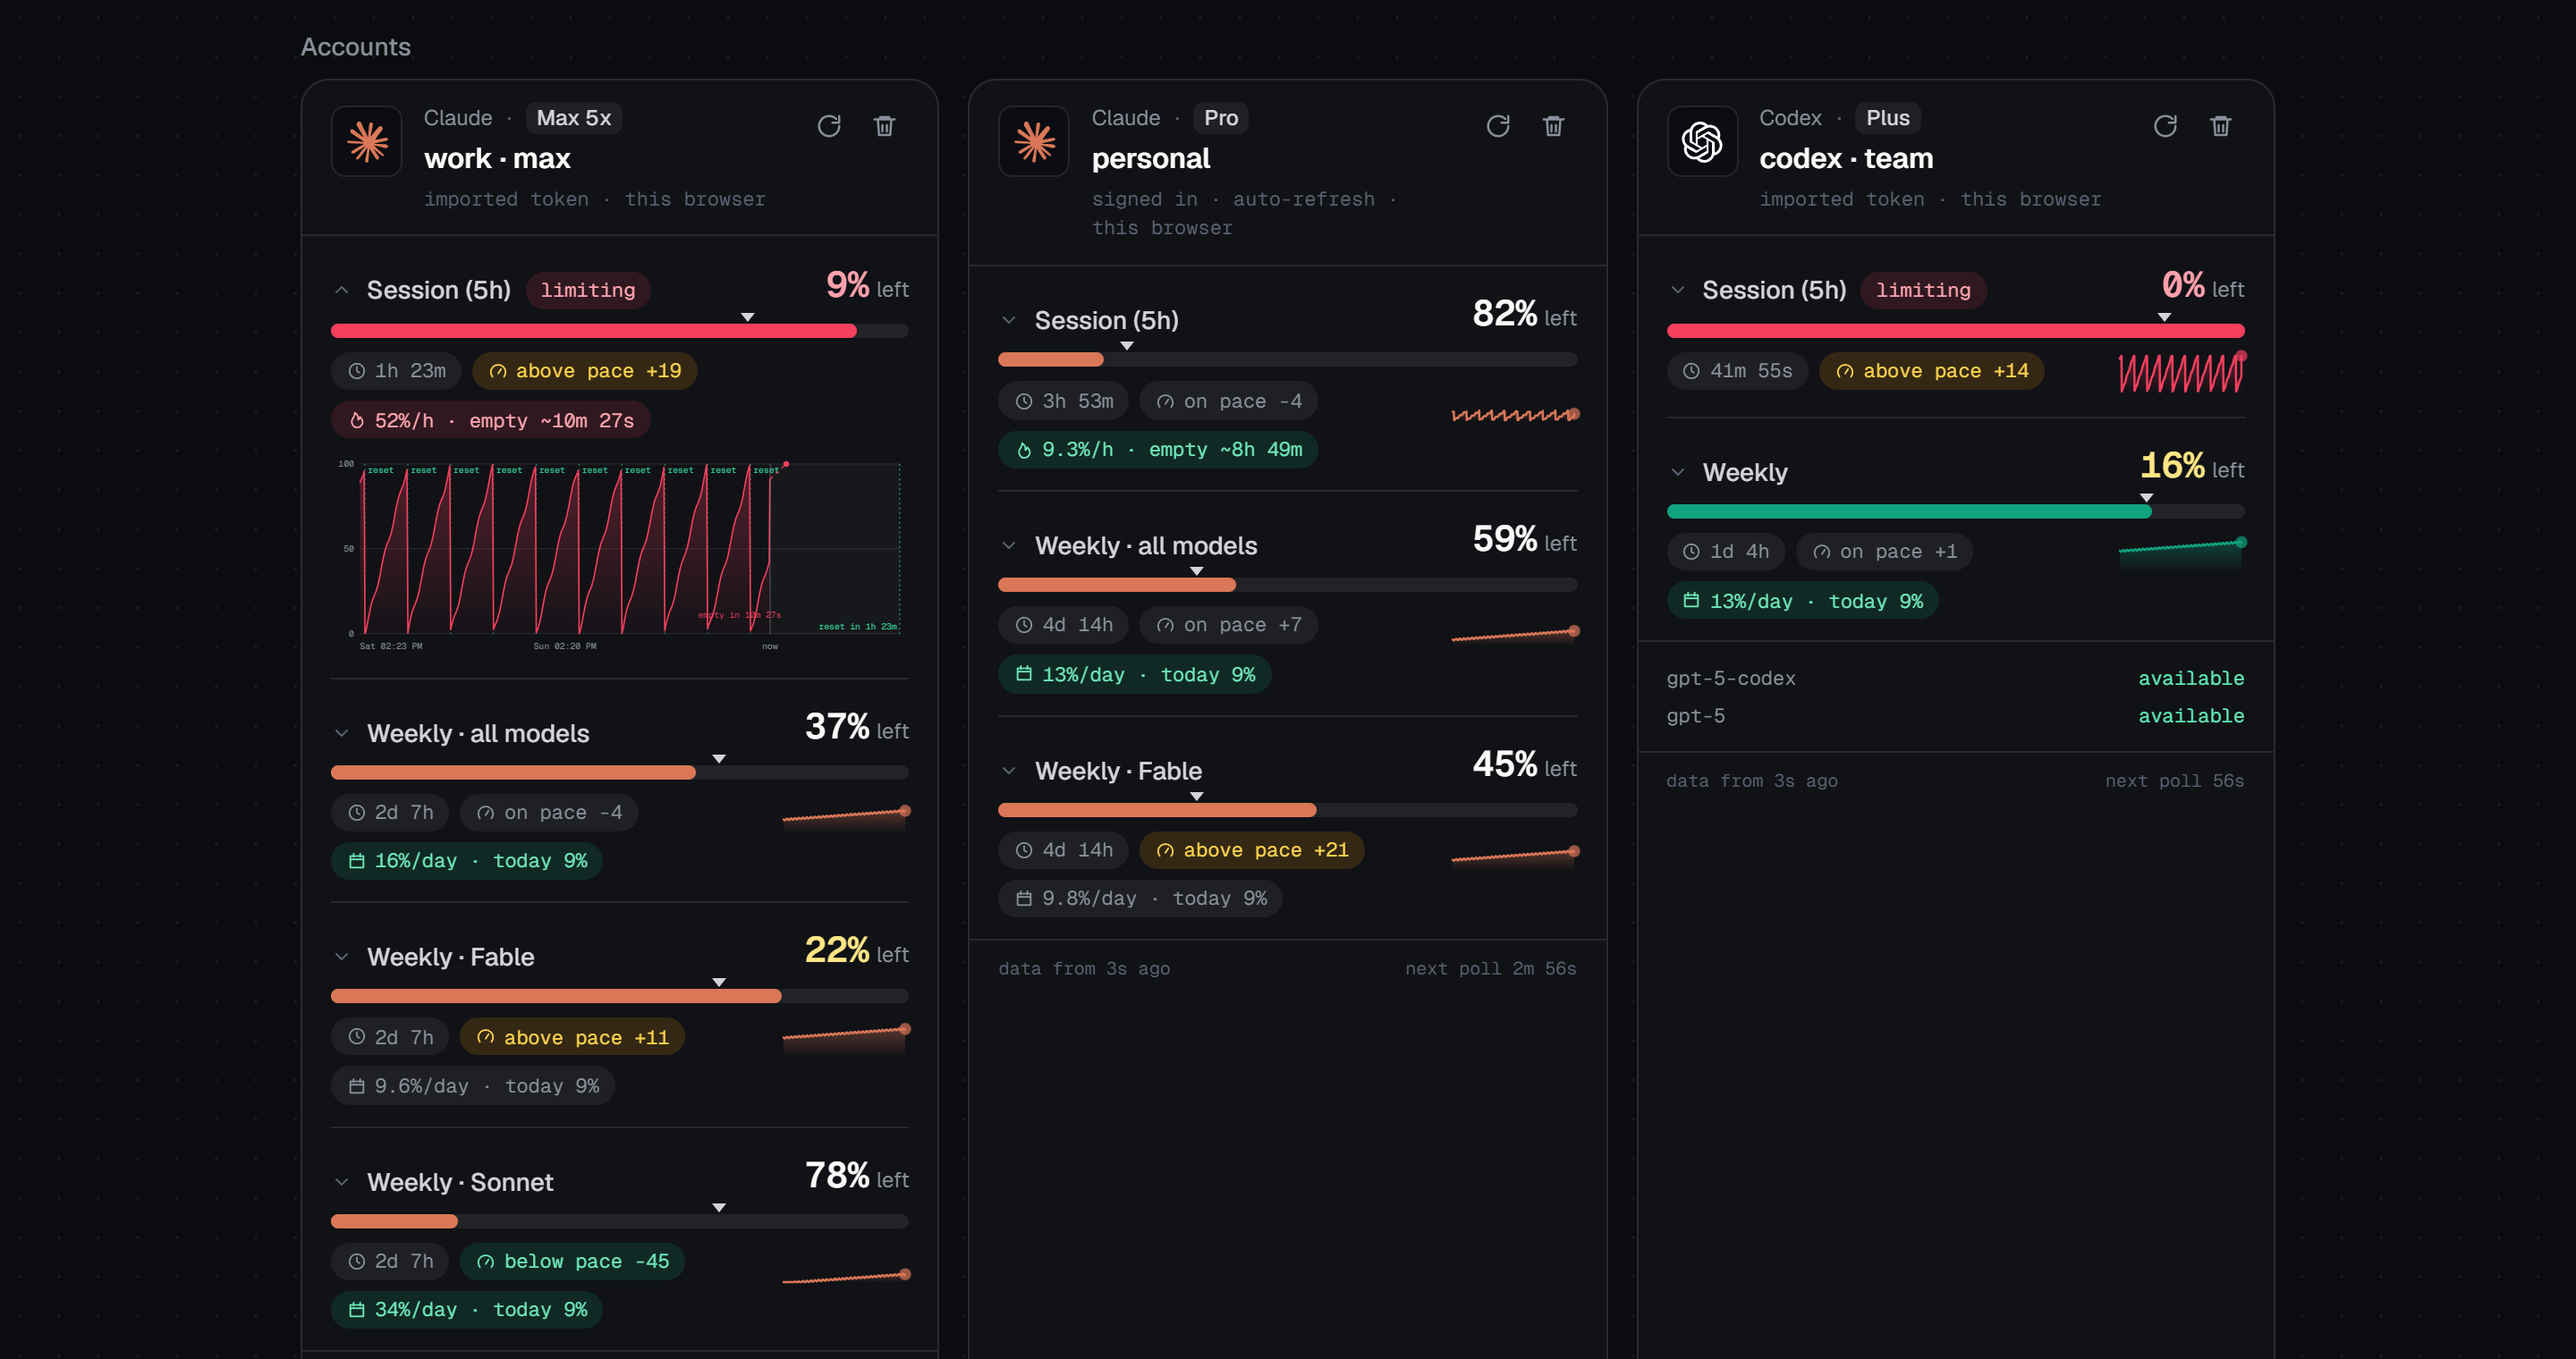
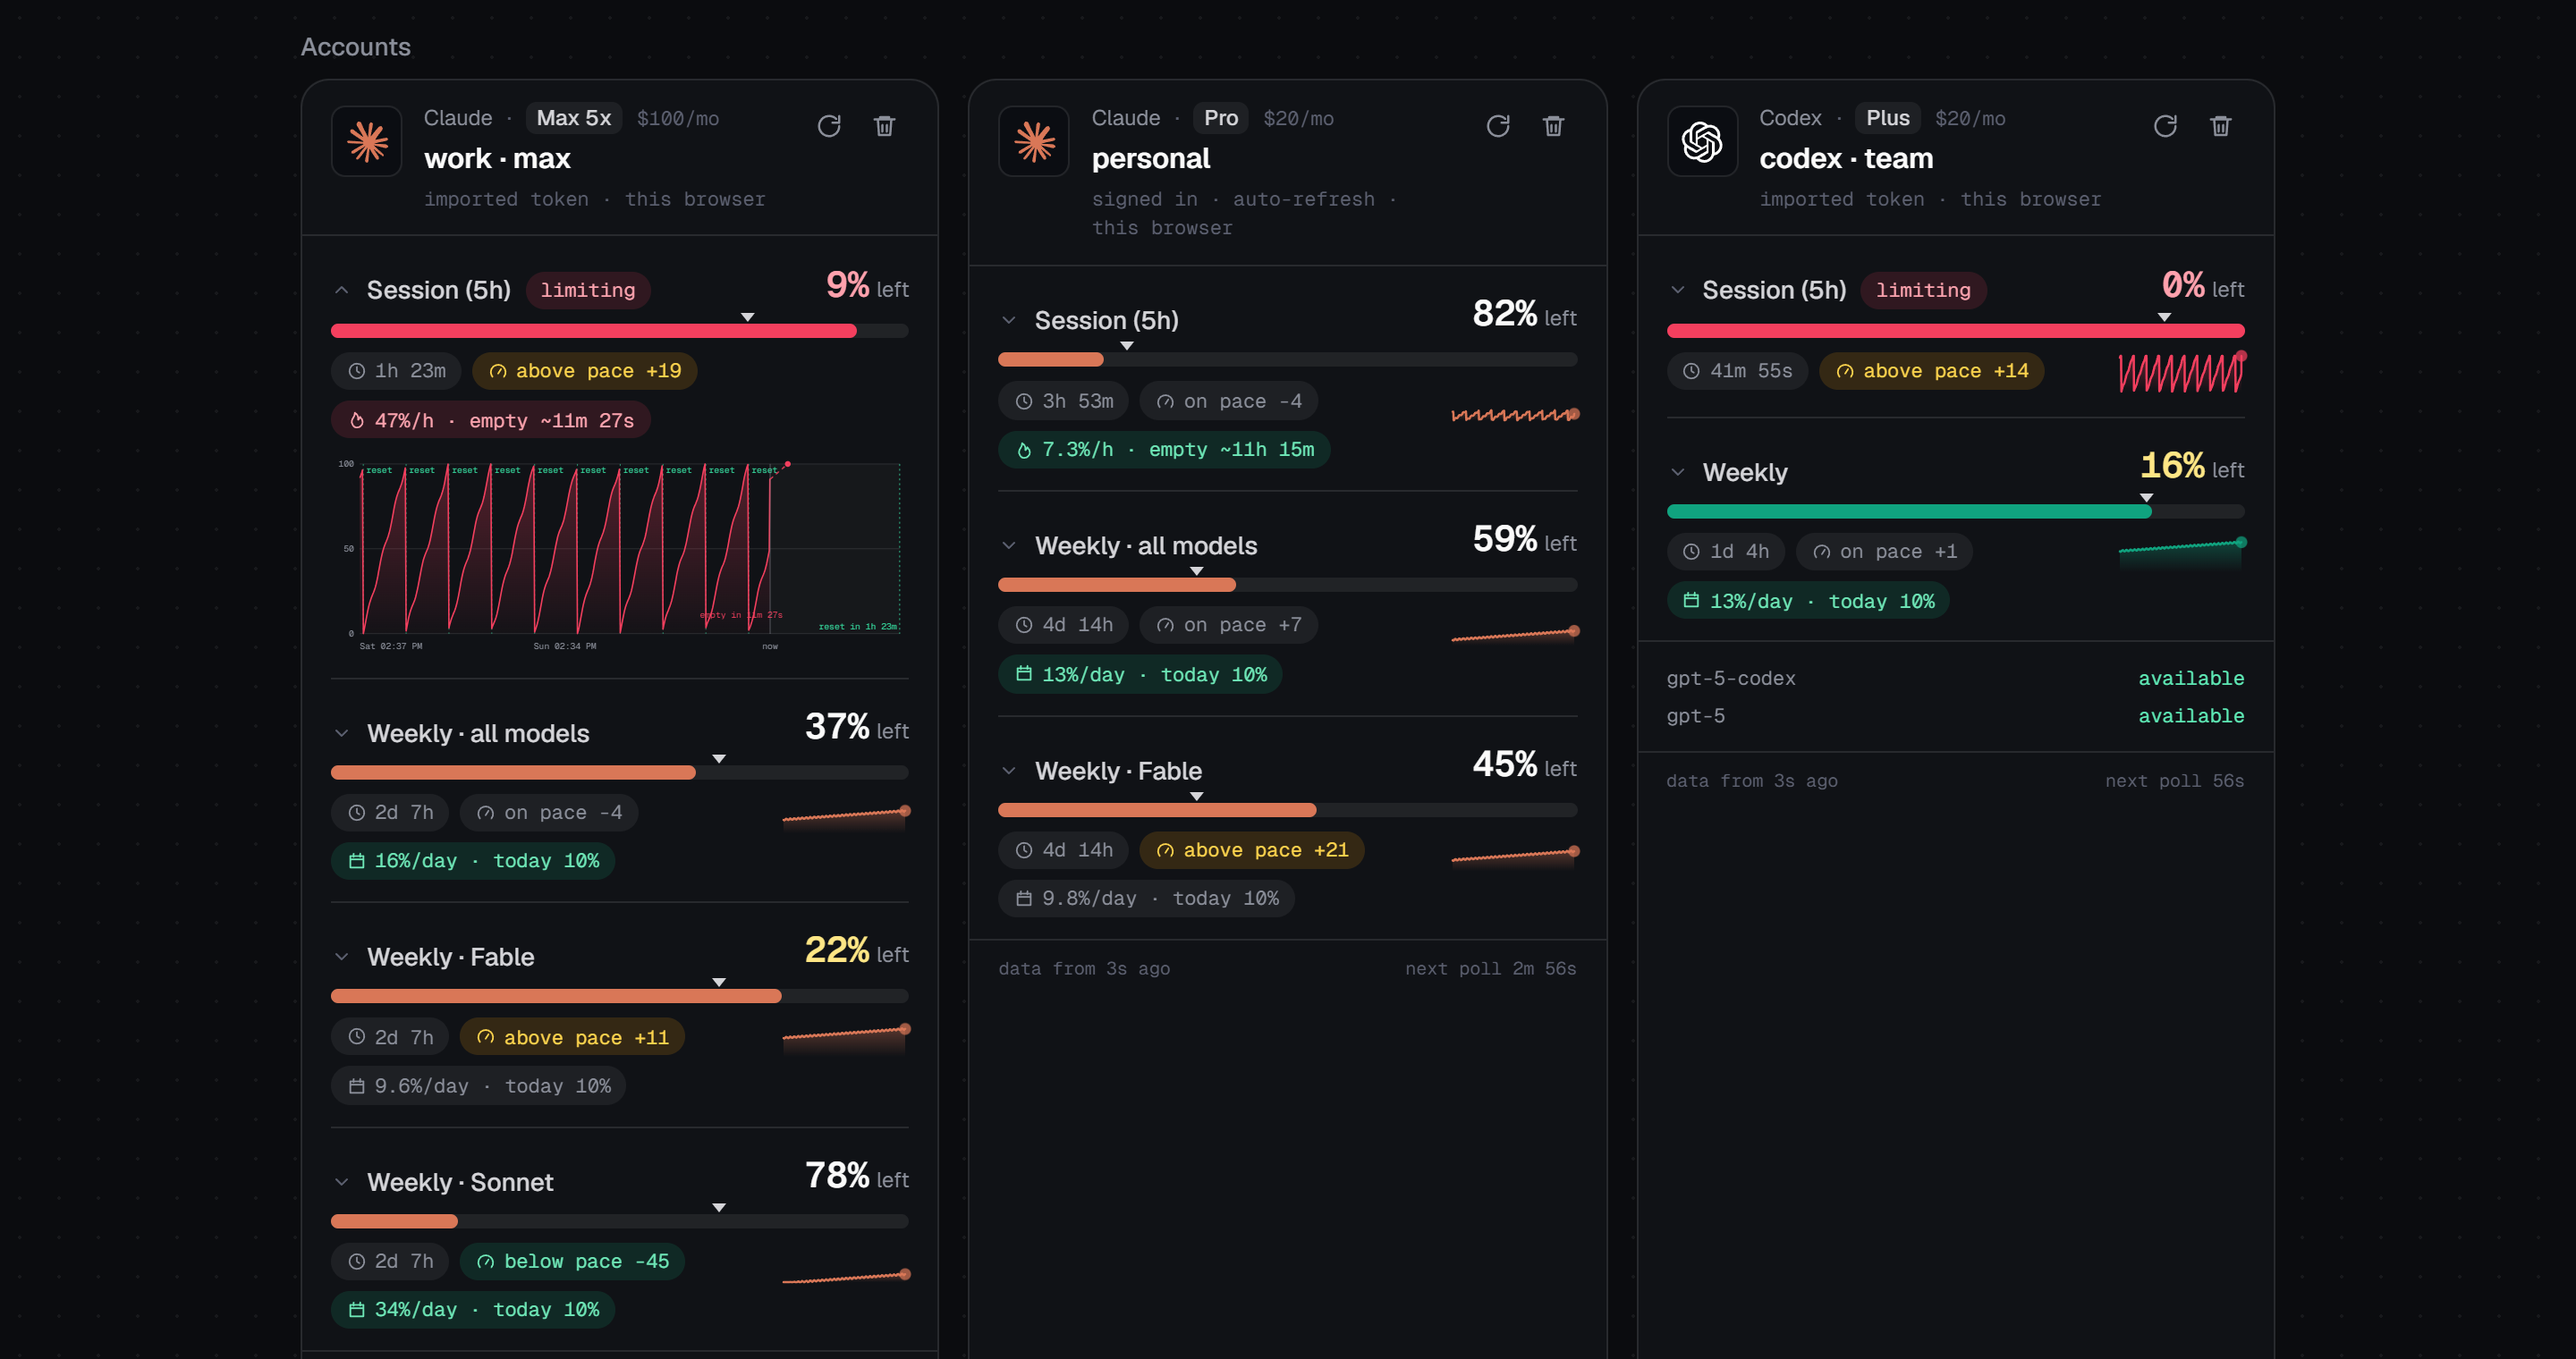
Show each plan's price on its account card

diff --git a/src/components/AccountCard.tsx b/src/components/AccountCard.tsx
@@ -1,7 +1,8 @@
 "use client";
 
 import { useState } from "react";
-import { formatAgo, formatCountdown, formatPlan } from "@/lib/format";
+import { formatAgo, formatCountdown, formatMoney, formatPlan } from "@/lib/format";
+import { monthlyPrice } from "@/lib/spend";
 import type { Sample } from "@/lib/history";
 import type { Account } from "@/lib/types";
 import type { UsageState } from "@/lib/usage-client";
@@ -35,6 +36,7 @@ export function AccountCard({ account, state, history, now, synced, onRefresh, o
   const loading = !state || state.status === "loading";
   const token = tokenStatus(account, now, synced);
   const plan = formatPlan(account.plan ?? usage?.plan);
+  const price = monthlyPrice(account.provider, account.plan ?? usage?.plan);
   const rateLimited = state?.rateLimitedUntil !== undefined && state.rateLimitedUntil > now;
   const [draft, setDraft] = useState<string | null>(null);
 
@@ -55,6 +57,11 @@ export function AccountCard({ account, state, history, now, synced, onRefresh, o
               <>
                 <span className="text-faint">·</span>
                 <span className="rounded-md bg-panel-3 px-1.5 py-px font-medium text-fg-2">{plan}</span>
+                {price !== null && (
+                  <span className="font-mono text-[11px] text-faint" title="List price of this plan">
+                    {price === 0 ? "free" : `${formatMoney(price)}/mo`}
+                  </span>
+                )}
               </>
             )}
           </div>
